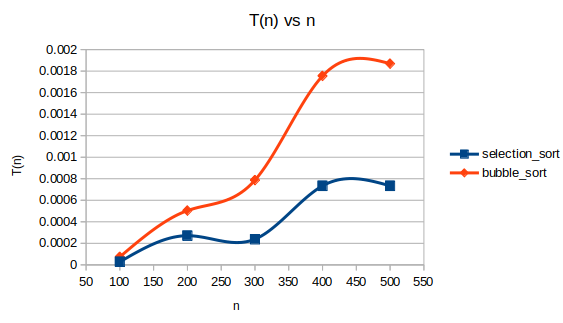
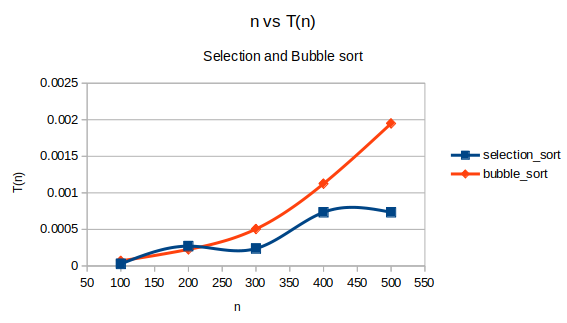
updated plot

diff --git a/Lab3/bubble.c b/Lab3/bubble.c
@@ -2,20 +2,18 @@
 #include <stdlib.h>
 #include <time.h>
 
- 
-void sort(int arr[], int n) {
-    int i, j;
-    for(i =0 ;i<n;i++) {
-        for(j=i+1;j<n;j++) {
-            if(arr[i]>arr[j]) {
-                arr[i] = arr[i]+arr[j];
-                arr[j] = arr[i]-arr[j];
-                arr[i] = arr[i]-arr[j];
-             }
+void sort(int arr[], int n) 
+{ 
+    int i, j; 
+    for (i = 0; i < n-1; i++)     
+      
+    for (j = 0; j < n-i-1; j++) 
+        if (arr[j] > arr[j+1]) {
+            arr[i] = arr[i]+arr[j];
+            arr[j] = arr[i]-arr[j];
+            arr[i] = arr[i]-arr[j];
         }
-    }
-}
-
+} 
 
 void generateArray(int arr[],int n) {
     for(int i=0;i<n;i++)
